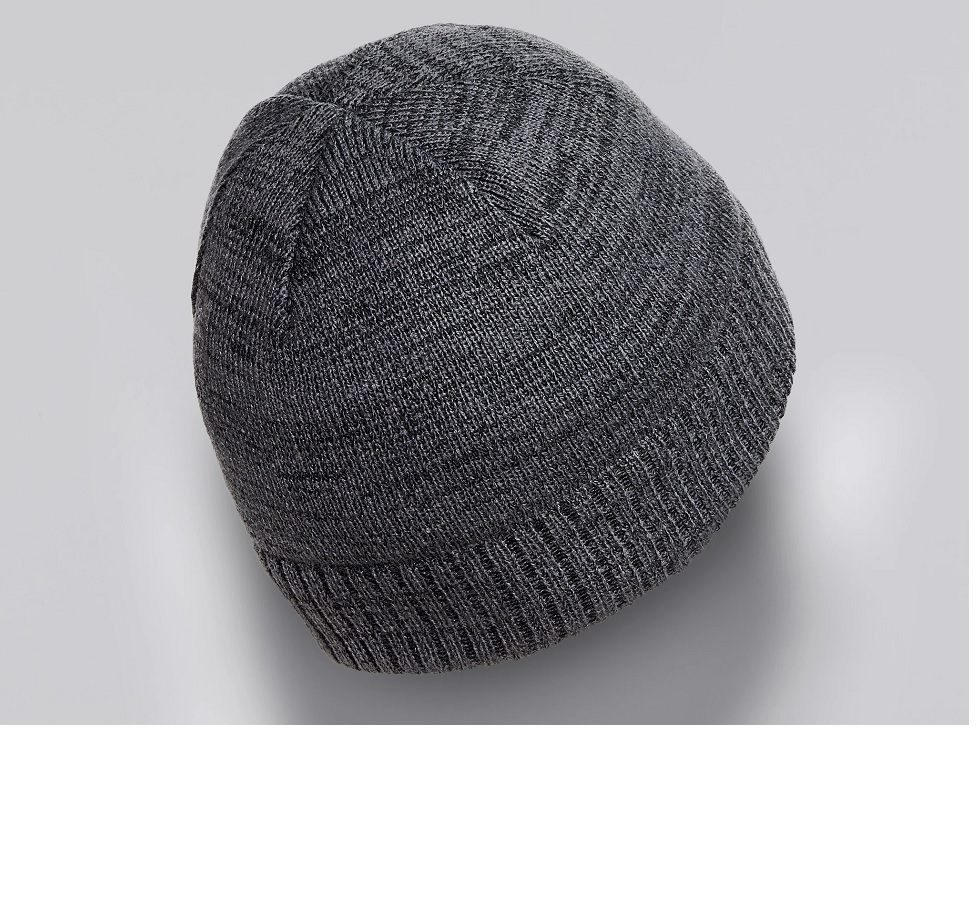
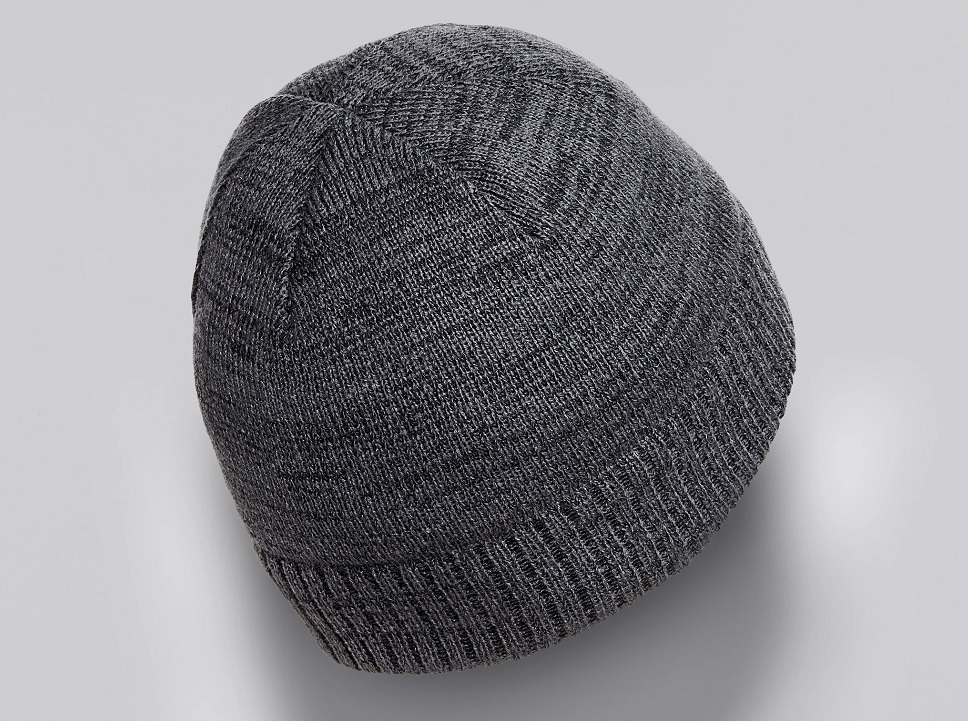
Compress accessory photos

diff --git a/src/pages/womens/accessories.js b/src/pages/womens/accessories.js
@@ -23,13 +23,13 @@ const WomensAccessories = () => (
                         <Link href="/womens/accessories/tee"><a className="home__link home__link--item">SHOP TEE</a></Link>
                     </div>
                     <div className="home__image-area">
-                        <img src="/tee_main.jpg" alt="main woman" className="home-image"/>
+                        <img src="/tee_main_min.jpg" alt="main woman" className="home-image"/>
                     </div>
                 </div>
 
                 <div className="home__row">
                     <div className="home__image-area">
-                        <img src="/beanie_main.jpg" alt="main woman" className="home-image"/>
+                        <img src="/beanie_main_min.jpg" alt="main woman" className="home-image"/>
                     </div>
                     <div className="home__text-area home__text-area--men">
                         <h3>The Beanie</h3>
@@ -45,7 +45,7 @@ const WomensAccessories = () => (
                         <Link href="/womens/accessories/mitten"><a className="home__link home__link--item">SHOP MITTENS</a></Link>
                     </div>
                     <div className="home__image-area">
-                        <img src="/women/accessories/mitten_main.jpg" alt="main woman" className="home-image"/>
+                        <img src="/women/accessories/mitten_main_min.jpg" alt="main woman" className="home-image"/>
                     </div>
                 </div>
 

diff --git a/src/pages/womens/accessories/beanie.js b/src/pages/womens/accessories/beanie.js
@@ -8,7 +8,7 @@ const WomanBeanie = () => {
     const name = 'The Beanie';
     const cost = 35;
     const [colorSelected, setColorSelected] = useState('gray');
-    const [imgSrc, setImgSrc] = useState('/beanie_gray.jpg');
+    const [imgSrc, setImgSrc] = useState('/beanie_gray_min.jpg');
     const [size, setProductSize] = useState('none');
 
     function addItemToCart() {
@@ -62,11 +62,11 @@ const WomanBeanie = () => {
             switch (e.target.value) {
                 case 'gray':
                     setColorSelected('gray');
-                    setImgSrc('/beanie_gray.jpg');
+                    setImgSrc('/beanie_gray_min.jpg');
                     break;
                 case 'blue':
                     setColorSelected('blue');
-                    setImgSrc('/beanie_blue.jpg');
+                    setImgSrc('/beanie_blue_min.jpg');
                     break;
                 default:
                     break;

diff --git a/src/pages/womens/accessories/mittens.js b/src/pages/womens/accessories/mittens.js
@@ -10,7 +10,7 @@ const WomenMittens = () => {
     const name = 'The Mitten';
     const cost = 79;
     const [colorSelected, setColorSelected] = useState('dark');
-    const [imgSrc, setImgSrc] = useState('/women/accessories/women_mittens.jpg');
+    const [imgSrc, setImgSrc] = useState('/women/accessories/women_mittens_min.jpg');
     const [size, setProductSize] = useState('m');
 
     function addItemToCart() {
@@ -82,7 +82,7 @@ const WomenMittens = () => {
             switch (e.target.value) {
                 case 'dark':
                     setColorSelected('dark');
-                    setImgSrc('/women/accessories/women_mittens.jpg');
+                    setImgSrc('/women/accessories/women_mittens_min.jpg');
                     break;
                 default:
                     break;

diff --git a/src/pages/womens/accessories/tee.js b/src/pages/womens/accessories/tee.js
@@ -10,7 +10,7 @@ const WomenTee = () => {
     const name = 'Womens Tee';
     const cost = 25;
     const [colorSelected, setColorSelected] = useState('dark');
-    const [imgSrc, setImgSrc] = useState('/tee.jpg');
+    const [imgSrc, setImgSrc] = useState('/tee_min.jpg');
     const [size, setProductSize] = useState('s');
 
     function addItemToCart() {
@@ -85,7 +85,7 @@ const WomenTee = () => {
             switch (e.target.value) {
                 case 'dark':
                     setColorSelected('dark');
-                    setImgSrc('/tee.jpg');
+                    setImgSrc('/tee_min.jpg');
                     break;
                 default:
                     break;
